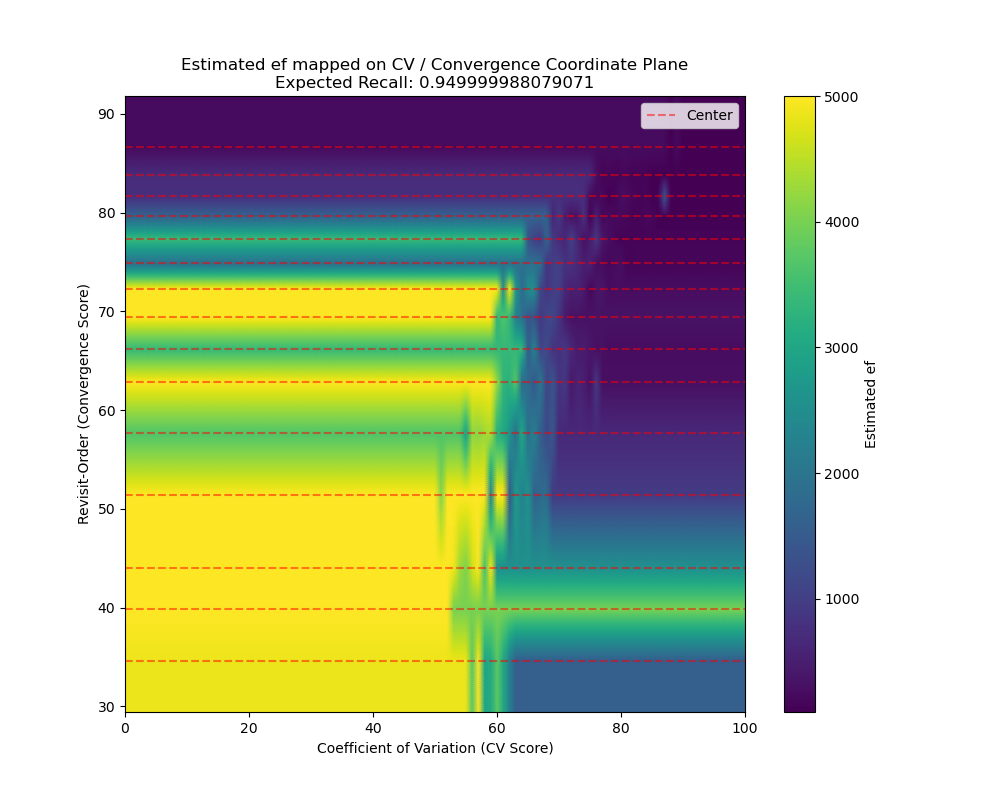
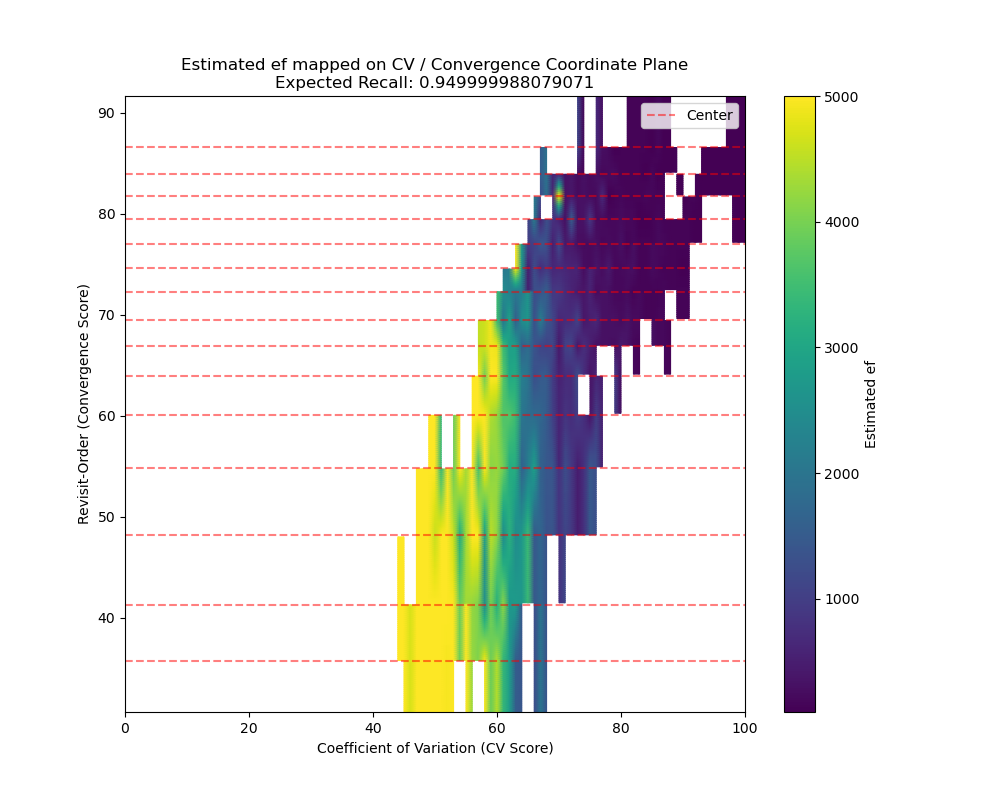
remove filling functions

diff --git a/hnswlib/shiro_ef.h b/hnswlib/shiro_ef.h
@@ -861,7 +861,7 @@ namespace hnswdis
 
         // ---- Step 4: Hard = intersection(bottom-5% CV, bottom-5% RV) ----
         const size_t tail = static_cast<size_t>(std::round(0.05 * pool));
-        
+
         std::unordered_set<size_t> cv_tail_set;
         cv_tail_set.reserve(tail);
         for (size_t i = 0; i < tail; ++i) cv_tail_set.insert(cv_order[i]);
@@ -1167,7 +1167,7 @@ namespace hnswdis
         const float alpha,
         const float gamma,
         const size_t statics_length,
-        const size_t pool_size = 30000)
+        const size_t pool_size = 20000)
     {
         hnswdis::ApproximatedScoreCalculator score_cal(alpha, gamma);
         std::shared_ptr<hnswdis::MatrixXf> sample_query_vectors =
@@ -1446,7 +1446,6 @@ namespace hnswdis
 
             auto &stat = first_recall_estimator.get_recall_statistics();
 
-            // 1. Extract score to EF and count mapping
             std::map<int, size_t> score_to_ef;
             std::map<int, size_t> score_to_cnt;
 
@@ -1467,73 +1466,6 @@ namespace hnswdis
                 score_to_cnt[score] = cnt;
             }
 
-            // 2. Identify continuous and discrete parts
-            std::vector<int> scores;
-            for (auto const& [score, _] : score_to_ef) {
-                scores.push_back(score);
-            }
-
-            int best_start = 0, best_len = 0;
-            int curr_start = 0, curr_len = 1;
-
-            if (scores.size() > 0) {
-                for (size_t i = 1; i < scores.size(); ++i) {
-                    if (scores[i] == scores[i-1] + 1) {
-                        curr_len++;
-                    } else {
-                        if (curr_len > best_len) {
-                            best_len = curr_len;
-                            best_start = curr_start;
-                        }
-                        curr_start = i;
-                        curr_len = 1;
-                    }
-                }
-                if (curr_len > best_len) {
-                    best_len = curr_len;
-                    best_start = curr_start;
-                }
-            }
-
-            int cont_start_score = 0;
-            int cont_end_score = 100;
-            if (best_len > 0) {
-                cont_start_score = scores[best_start];
-                cont_end_score = scores[best_start + best_len - 1];
-                if (best_len >= 3) {
-                    cont_start_score += 1;
-                    cont_end_score -= 1;
-                }
-            }
-
-            // 3. Compute weighted averages for discrete regions and the continuous block
-            float left_sum_ef = 0, right_sum_ef = 0, cont_sum_ef = 0;
-            size_t left_sum_cnt = 0, right_sum_cnt = 0, cont_sum_cnt = 0;
-
-            for (auto const& [score, ef] : score_to_ef) {
-                size_t cnt = score_to_cnt[score];
-                if (score < cont_start_score) {
-                    left_sum_ef += ef * cnt;
-                    left_sum_cnt += cnt;
-                } else if (score > cont_end_score) {
-                    right_sum_ef += ef * cnt;
-                    right_sum_cnt += cnt;
-                } else {
-                    cont_sum_ef += ef * cnt;
-                    cont_sum_cnt += cnt;
-                }
-            }
-
-            size_t cont_avg_ef = cont_sum_cnt > 0 ? std::round(cont_sum_ef / cont_sum_cnt) : 0;
-            size_t left_avg_ef = left_sum_cnt > 0 ? std::round(left_sum_ef / left_sum_cnt) : (score_to_ef.empty() ? 0 : score_to_ef.begin()->second);
-            size_t right_avg_ef = right_sum_cnt > 0 ? std::round(right_sum_ef / right_sum_cnt) : (score_to_ef.empty() ? 0 : score_to_ef.rbegin()->second);
-
-            if (cont_sum_cnt > 0) {
-                left_avg_ef = std::max(left_avg_ef, cont_avg_ef); // Harder queries should need >= average ef.
-                right_avg_ef = std::min(right_avg_ef, cont_avg_ef); // Easier queries should need <= average ef.
-            }
-
-            // 4. Build smoothed table and calculate new weighted average EF
             EfRecallTable smoothed_table;
             float weighted_average_ef = 0.0f;
             float total_queries = query_vectors->rows();
@@ -1542,17 +1474,9 @@ namespace hnswdis
                 size_t final_ef = 0;
                 size_t cnt = score_to_cnt.count(s) ? score_to_cnt[s] : 0;
 
-                if (s < cont_start_score) {
-                    final_ef = left_avg_ef;
+                if (score_to_ef.count(s)) {
+                    final_ef = score_to_ef[s];
                     smoothed_table.push_back({s, {{(int)final_ef, expected_recall}}});
-                } else if (s > cont_end_score) {
-                    final_ef = right_avg_ef;
-                    smoothed_table.push_back({s, {{(int)final_ef, expected_recall}}});
-                } else {
-                    if (score_to_ef.count(s)) {
-                        final_ef = score_to_ef[s];
-                        smoothed_table.push_back({s, {{(int)final_ef, expected_recall}}});
-                    }
                 }
 
                 if (cnt > 0 && final_ef > 0) {
@@ -1563,6 +1487,7 @@ namespace hnswdis
             out_table = smoothed_table;
             std::cout << "Weighted average ef: " << weighted_average_ef << std::endl;
             wae = weighted_average_ef;
+
         }
 
         void add_ef_recall(const int ef, const RecallEstimator &recall_estimator, EfRecallTable &out_table,